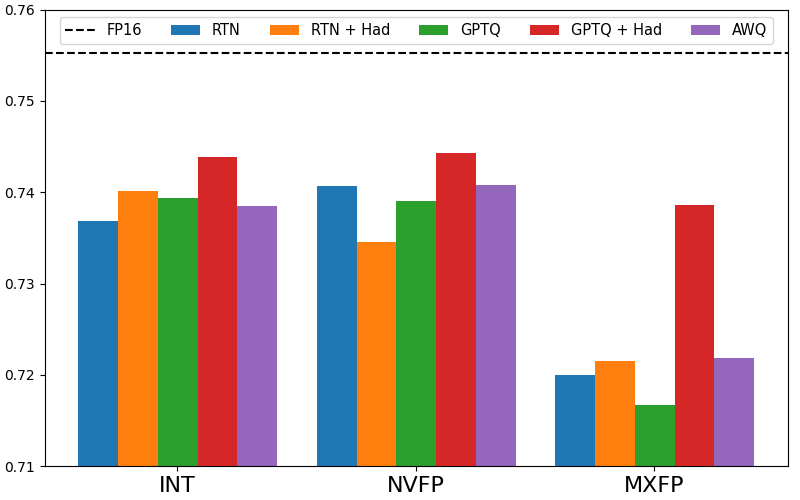
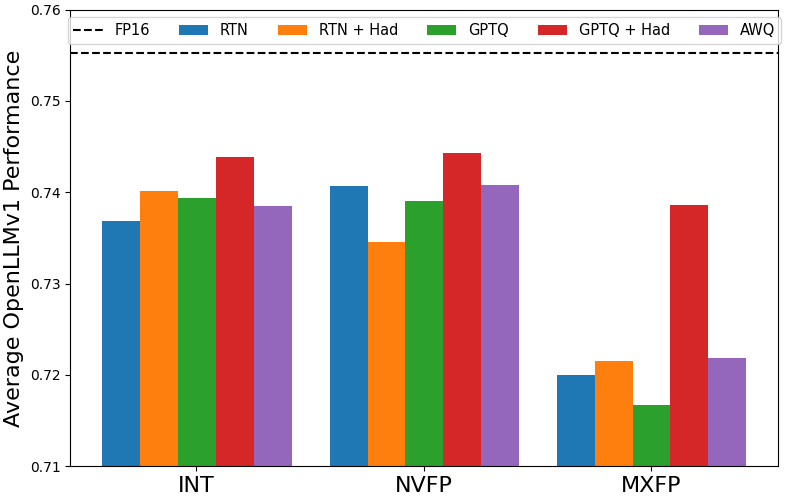
Updated figures and edited README

diff --git a/README.md b/README.md
@@ -117,7 +117,8 @@ Above:
 
 ### Infererence speedup
 
-Below we provide numbers for end-2-end inference vs bf16 with QuTLASS kernels vs `bf16` baseline.
+Below we provide numbers for end-2-end inference with QuTLASS kernels vs `bf16` baseline for Qwen3 models.
+
 
 <p float="left">
   <img src="assets/inference_speedup_qwen3_8b.png" width="400" />
@@ -129,16 +130,16 @@ Below we provide numbers for end-2-end inference vs bf16 with QuTLASS kernels vs
 
 The results below provide the evaluation results for quantized Llama-3 and Qwen-3 models 
 on the OpenLLM v1 leaderboard. Specifically, we provide average metrics for the following tasks:
-* mmlu_cot_llama (exact_match, strict_match)
-* arc_challenge_llama (exact_match, strict_match)
-* gsm8k_llama (exact_match, strict_match)
-* hellaswag (acc_norm)
-* winogrande (acc)
-* truthfulqa_mc2 (acc)
+* `mmlu_cot_llama` (exact_match, strict_match)
+* `arc_challenge_llama` (exact_match, strict_match)
+* `gsm8k_llama` (exact_match, strict_match)
+* `hellaswag` (acc_norm)
+* `winogrande` (acc)
+* `truthfulqa_mc2` (acc)
 
 The results for Qwen3 exclude `arc_challenge_llama` as it turns out to be very noisy. 
 
-Below left column corresponds to weight-only quantization, right column corresponds to weight-and-activation quantization.
+Below left column corresponds to **weight-only** quantization, right column corresponds to **weight-and-activation** quantization. Results for AWQ were produced via the dedicated [AutoAWQ fork](https://github.com/Godofnothing/AutoAWQ-FP).
 
 **Llama-3.1-8B-Instruct**
 
@@ -153,3 +154,5 @@ Below left column corresponds to weight-only quantization, right column correspo
   <img src="assets/qwen3-3-8b-acc-weight_only.png" width="400" />
   <img src="assets/qwen3-3-8b-acc-weight_and_activation.png" width="400" />
 </p>
+
+*Note*. For NVFP format without `hadamard` rotation GPTQ's average performance is below 0.65.  
